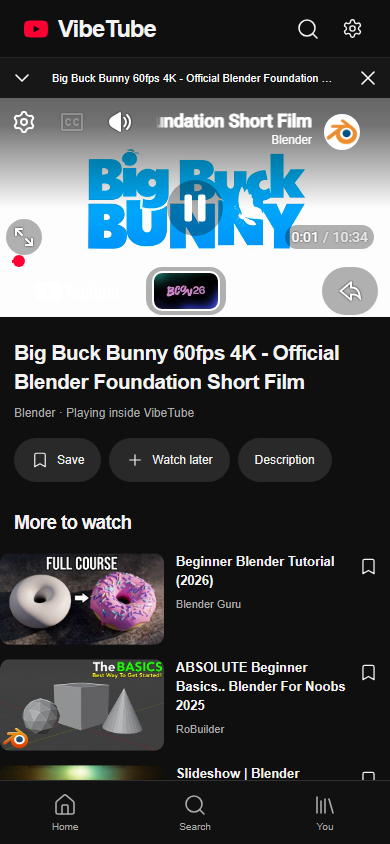
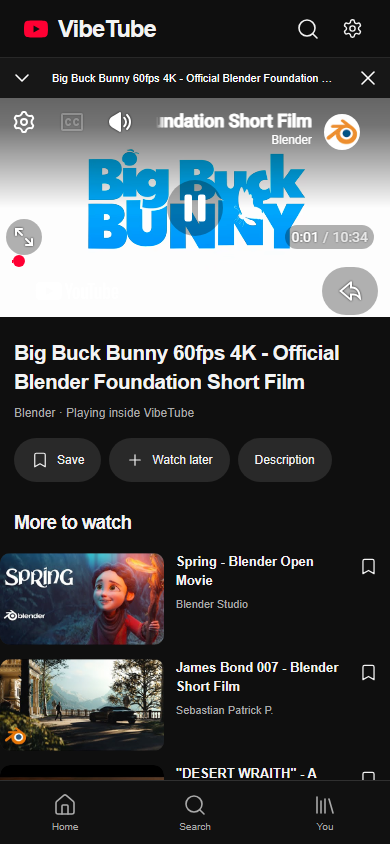
Record published discovery and playback acceptance checks

Changed region(s): [[0.0, 0.6469, 0.8923, 0.9242], [0.3692, 0.3081, 0.5846, 0.4005], [0.5538, 0.7085, 0.6462, 0.7393]]

diff --git a/docs/DEPLOYMENT.md b/docs/DEPLOYMENT.md
@@ -1,12 +1,18 @@
-# Published VibeTube 3.1
+# Published VibeTube 3.2
 
-**Live:** https://mustafa1p.github.io/VibeTube-Mobile/?v=3.1
+**Live:** https://mustafa1p.github.io/VibeTube-Mobile/?v=3.2
 
-Application commit: `a43ce20e144a09ab83a970b7a996740461b50c3c`.
+Application commit: `ef055a19e33ee38db2eb308ad99594e80d44f155`.
 
-[Successful GitHub Pages build and deployment](https://github.com/Mustafa1p/VibeTube-Mobile/actions/runs/39360332276). Formatting, PHP syntax, build and eight deterministic tests passed in CI.
+[Successful GitHub Pages build and deployment](https://github.com/Mustafa1p/VibeTube-Mobile/actions/runs/39362267902). Formatting, PHP syntax, build and ten deterministic tests passed in CI.
 
 ## Actual published-site verification — 20 October 2026
+
+A fresh Chromium session loaded release 3.2 on Pages with standalone mode emulated. [Current observations](discovery-verification.json) record HTTP 200, 20 Home videos, 20 Music videos, eight autocomplete suggestions, 20 first-page search results and 39 unique videos after Load more. The selected public Blender video played beyond 1.63 seconds without a second Play tap. Twenty compact recommendations appeared below it, with thumbnails approximately 164 px wide at a 390 px viewport. There were no uncaught app errors. [Discovery changes](DISCOVERY-FIX.md) explain the fixes and limits.
+
+Separate targeted WebKit tests passed for discovery and retry. Physical iPhone behavior remains unverified. YouTube's official iframe and branding remain in use; custom server playback is still blocked by YouTube on this hosting IP.
+
+## Earlier release 3.1 playback record
 
 A fresh desktop Chromium session with standalone mode explicitly emulated loaded the deployed app over HTTPS. [Raw observations](live-verification.json) record:
 
@@ -27,7 +33,7 @@ The embedded player retains YouTube's own native controls and branding. The app 
 
 ## Updating an existing installation
 
-If the old launcher is still visible, tap **Update now** when the notice appears, then close and reopen VibeTube from the Home Screen. The same manifest identity and project path are retained, so the Home Screen icon does not need to be recreated. The `?v=3` link can fetch the current installation shell in a normal browser, but watching still requires launching the installed app.
+Close the player, tap **Update now** when the notice appears, then reopen VibeTube from the Home Screen. About should display **VibeTube Mobile 3.2.0**. The same manifest identity and project path are retained, so the Home Screen icon does not need to be recreated. The `?v=3.2` link can fetch the current installation shell in a normal browser, but watching still requires launching the installed app.
 
 ## Remaining physical check
 

diff --git a/docs/DISCOVERY-FIX.md b/docs/DISCOVERY-FIX.md
@@ -17,3 +17,5 @@ The deployed server's custom media extraction remains blocked by YouTube. Standa
 The live gateway returned 20 results on each of two music-search pages, with 37 distinct IDs across those changing result pages. Query autocomplete returned real suggestions. Desktop Chromium real-media testing passed with playback advancing after selection without an additional provider Play tap. Deterministic tests cover topic feeds, pagination, suggestion selection by keyboard, compact recommendations, error retry and the requested playback call; their intercepted responses do not prove external-media behavior.
 
 Ten deterministic Chromium checks passed, along with two targeted WebKit checks for discovery and error recovery. A separate live browser pass observed 20 Home videos, 20 Music videos, eight autocomplete suggestions, 39 unique results after Load more and 20 compact recommendations, with no uncaught errors. These desktop checks do not establish physical iPhone behavior.
+
+The same checks passed against the published Pages release. [Published observations](discovery-verification.json) record the result, including actual video time advancement without a second Play tap. Arabic music search separately returned HTTP 200 with 20 results, 17 with Arabic titles. [Deployment](DEPLOYMENT.md) records the application commit and successful CI run.

diff --git a/docs/VERIFICATION.md b/docs/VERIFICATION.md
@@ -1,5 +1,7 @@
 # In-app playback verification — 20 October 2026
 
+Release 3.2 discovery fixes and current published observations are recorded in [Discovery fix](DISCOVERY-FIX.md) and [Deployment](DEPLOYMENT.md). Ten deterministic Chromium checks and two targeted WebKit checks passed; Home/Music feeds, autocomplete, pagination, compact recommendations and playback on selection were also checked against the published site.
+
 Release 3.1 adds verified hosted live search, optional HTML5 playback and adapted sponsor-timestamp logic. See [backend verification](BACKEND-VERIFICATION.md) for the current results and hosting-IP blocker. The release 3 record below predates those additions. The latest deterministic suite has eight passing tests; both separately enabled real search and real embedded-playback tests also pass on the desktop preview.
 
 Release 3 replaces the external launcher with a persistent embedded YouTube player.
